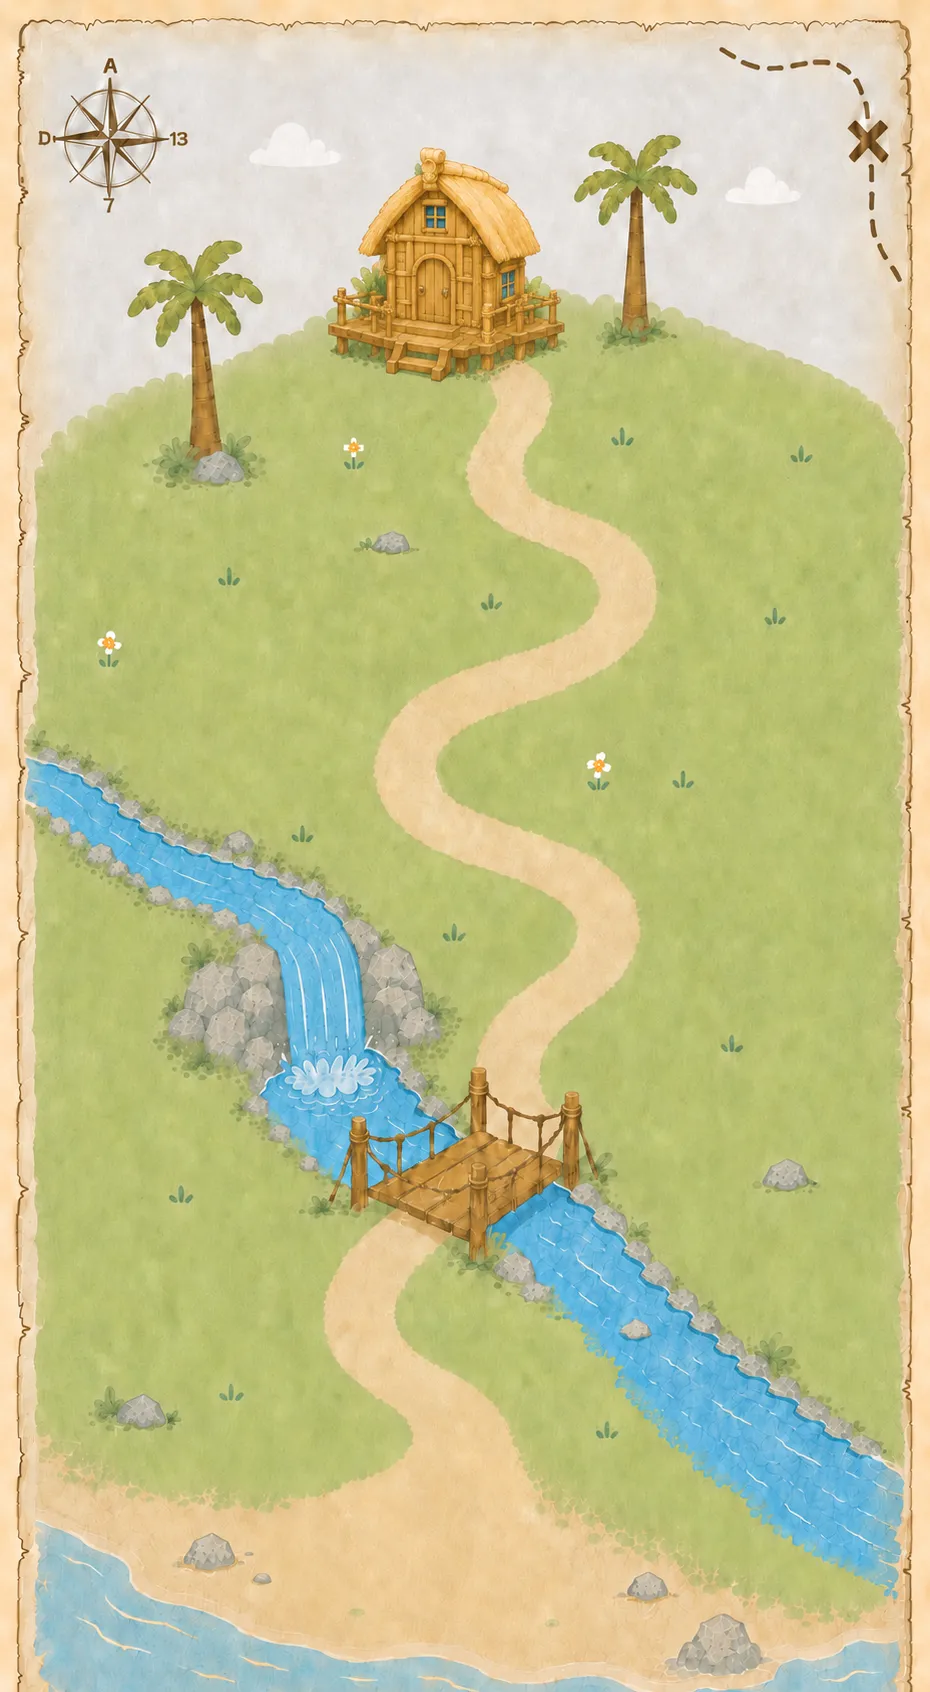
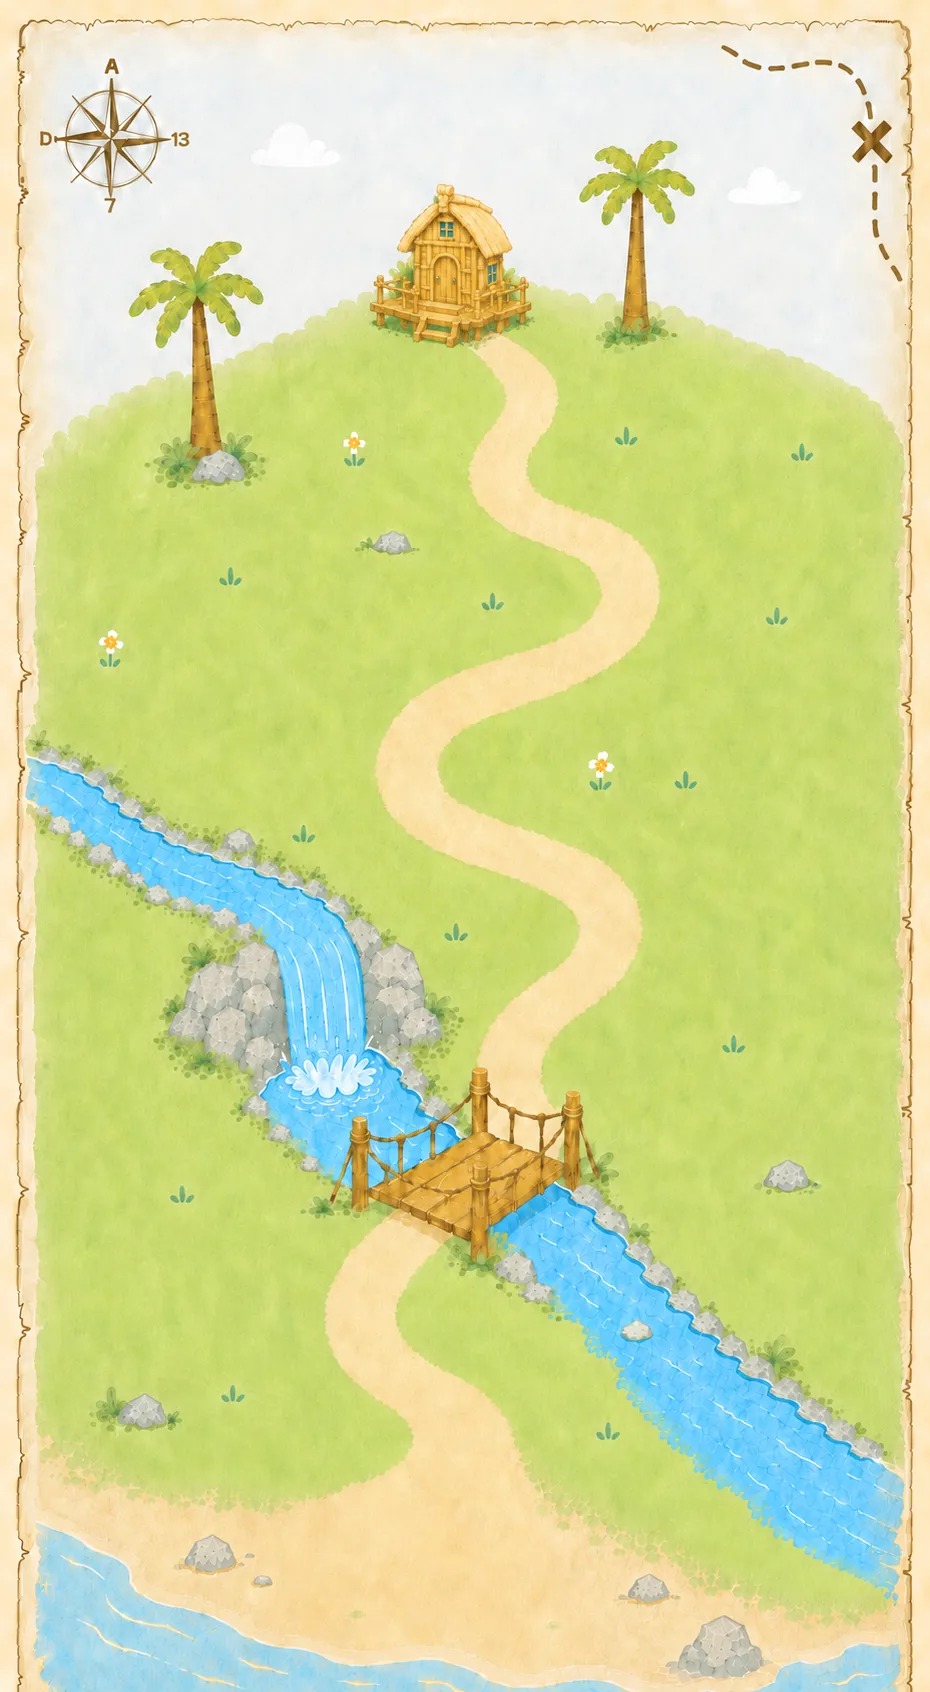
map: 탐험지도 원화 교체 (긴 판 v14 · 짧은 판 v5) — 길 중심선 새로 추출
두 판 모두 크기(885×1777 / 930×1692)와 구도는 그대로지만 모래길이 다시 그려져
굽이가 커지고 폭이 넓어졌다. 옛 중심선(긴 90점 · 짧은 85점)을 새 그림에 얹어 보니
길 밖으로 밀려나 발자국·아이 동선이 잔디를 밟았다 → 중심선을 새로 뽑았다.

뽑는 법: 가로줄마다 모래색 구간을 찾아 중심을 잇고(0.8%씩) 3점 이동평균으로 다듬는다.
자동 검출이 튀는 두 구간은 실측값으로 손보간했다.
  · 다리   — 난간·기둥·상판이 길을 가린다. 다리 위아래 마지막 실측 중심을 이어 채움
             (긴 판 56.1@61.2 → 58@64.1 → 45.5@72.4 / 짧은 판 54.8@62.9 → 56.4@66.3 → 43.4@72.5)
  · 모래사장 — 길이 해변에 녹아 경계가 사라진다. 예전과 같은 곡선으로 이어
             보물상자 오른쪽 옆(긴 판 60.3,90.6 / 짧은 판 51,90.4)에서 끝나게 했다

학원 자리·동물·상자·무지개는 지형이 그대로라 하나도 안 건드렸다.
비율(ar·yr·경로 가중치)도 크기가 같아 그대로다.

art-src 는 규칙 6대로 구버전(v13 · v4)을 지우고 새 원본만 남겼다.

Claude-Session: https://claude.ai/code/session_018maNuYqDfFyRSe9uKpZhPR

diff --git a/src/components/AdventureMap.jsx b/src/components/AdventureMap.jsx
@@ -121,7 +121,7 @@ const EV_IMG = { ev_rainbow: "assets/map-ev/rainbow.webp" };
 
 const MAP_LONG = {
   bg: "assets/adventure-map.webp",
-  ar: "885 / 1777",   // 원화 v13 실측
+  ar: "885 / 1777",   // 원화 v14 실측 (v13과 같은 크기)
   /* [사용자 확정 2026-08-13] 상자를 오른쪽으로 옮겼다 (x 37 → 45.5, 지도에 파란 점으로 찍어 줌).
      길 끝(50,90) '옆'이라는 원칙은 그대로고, 8.5%만큼 길 쪽으로 붙였다 —
      예전 자리는 길에서 너무 떨어져 상자가 지도 왼쪽 구석에 혼자 있는 느낌이었다.
@@ -195,26 +195,30 @@ const MAP_LONG = {
     8: [[68.8,31.8,null,1],[45.1,36.6,null,0],[32.1,44.5,null,3],[57,47,null,1],[74.3,51.9,null,2],[70.5,63.2,null,3],[30.5,74.8,null,0],[53.6,80.4,null,2]],
   },
   pointAt: mkPointAt([
-    /* v12 원화 모래길 중심선 — 진행 방향의 직각으로 재며 걷는 방식으로 다시 뽑았다.
-       v11에서 길이 좁아지고 굽이가 바뀌어 옛 86점 중 23점이 길 밖으로 나갔다. */
-    [58.2,22.1],[58.7,22.8],[58.4,23.3],[58.2,24.3],[57.6,25.2],[56.4,26.1],[54.9,26.8],[54.1,27.5],
-    [53.3,28.2],[53.4,29.1],[53.7,30],[54.7,30.9],[55.9,31.6],[57.5,32.3],[58.8,32.8],[60.3,33.2],
-    [61.6,33.7],[62.3,34.4],[62.9,35.3],[62.9,36.4],[62.2,37.3],[60.9,38.2],[59.6,38.8],[57.7,39.3],
-    [56,39.5],[54.5,39.8],[53,40],[51.5,40.3],[50.1,40.7],[48.7,41.1],[47.5,41.5],[46.3,42.1],
-    [45.3,42.7],[44.6,43.4],[44.1,44.1],[44.2,44.9],[44.5,45.7],[45.3,46.5],[46.4,47.1],[47.7,47.7],
-    [49,48.1],[50.5,48.5],[51.9,48.8],[53.4,49.1],[54.9,49.4],[56.3,49.7],[57.7,50.1],[59,50.5],
-    [60.2,51],[61.1,51.6],[61.7,52.3],[62,53.1],[61.8,53.9],[61.4,54.6],[60.6,55.3],[59.6,56],
-    [58.7,56.6],[57.8,57.3],[57.2,58.1],[56.7,59],[55.9,60.2],[55,61.3],[53.2,63.8],[51,66.2],
-    [48.8,68.5],[46.8,70.4],[44.8,72.4],[43.6,72.9],[42.5,73.5],[41.4,74.1],[40.4,74.7],[39.6,75.4],
-    [38.9,76.1],[38.7,77],[38.8,77.9],[39.6,78.8],[40.6,79.7],[42.1,80.5],[43.2,81.4],[45,82.2],
-    [46.4,83.1],[47.6,84],[48.5,85.1],[49.3,85.9],[49.6,86.7],[50.3,87.4],[51.5,88],[53.2,88.5],
-    [55.1,88.9],[56.9,89.3],[58.4,89.7],[59.6,90.1],[60.3,90.6],
+    /* v14 원화 모래길 중심선 — 원화가 바뀌면서 길이 다시 그려져(굽이가 커지고 폭이 넓어졌다)
+       옛 90점이 길 밖으로 밀려났다. 새로 뽑은 값이다.
+       뽑는 법: 가로줄마다 모래색 구간을 찾아 중심을 잇고(0.8%씩), 3점 이동평균으로 다듬는다.
+       다리 구간(y 61~72)은 난간·기둥·상판이 길을 가려 자동 검출이 튄다 → 다리 위아래의
+       마지막 실측 중심(56.1@61.2 → 58@64.1 → 45.5@72.4)을 이어 손으로 채웠다.
+       꼬리(y 86 아래)도 길이 모래사장에 녹아 경계가 사라진다 → 예전과 같은 곡선으로 이어
+       보물상자(45.5) 오른쪽 옆(60.3, 90.6)에서 끝나게 했다. */
+    [57.9,21.6],[59,22.4],[59.6,23.2],[59.5,24],[58.8,24.8],[57.6,25.6],[56,26.4],[54.5,27.2],[53.3,28],
+    [52.6,28.8],[52.3,29.6],[52.6,30.4],[53.6,31.2],[55.4,32],[58,32.8],[60.4,33.6],[62.7,34.4],
+    [63.9,35.2],[64.6,36],[64.2,36.8],[62.6,37.6],[60.1,38.4],[57.1,39.2],[54,40],[51,40.8],[48.3,41.6],
+    [46.1,42.4],[44.6,43.2],[43.7,44],[43.4,44.8],[43.6,45.6],[44.5,46.4],[46.2,47.2],[48.6,48],
+    [51.4,48.8],[54.2,49.6],[56.9,50.4],[59.4,51.2],[61.2,52],[62.2,52.8],[62.4,53.6],[61.9,54.4],
+    [61.2,55.2],[60.1,56],[58.8,56.8],[57.6,57.6],[56.5,58.4],[56,59.2],[55.7,60],[56,60.8],[56.4,61.6],
+    [56.9,62.4],[57.4,63.2],[57.4,64],[56.8,64.8],[55.7,65.6],[54.5,66.4],[53.3,67.2],[52.1,68],
+    [50.9,68.8],[49.7,69.6],[48.5,70.4],[47.3,71.2],[46,72],[44.5,72.8],[42.9,73.6],[41.3,74.4],
+    [39.9,75.2],[38.9,76],[38.1,76.8],[37.8,77.6],[37.9,78.4],[38.6,79.2],[40,80],[41.7,80.8],
+    [44.1,81.6],[46,82.4],[47.7,83.2],[48.8,84],[49.7,84.8],[50.3,85.6],[50.6,86.7],[51.2,87.4],
+    [52.3,88],[53.8,88.5],[55.5,88.9],[57.2,89.3],[58.6,89.7],[59.7,90.1],[60.3,90.6],
   ], 1777 / 885),
 };
 // 짧은 지도 v2 (972×1619, 3:5 양피지) — 학원 0~2곳용, 무대 배경과 비슷한 체감 높이
 const MAP_SHORT = {
   bg: "assets/adventure-map-short.webp",
-  ar: "930 / 1692",   // 원화 v4 실측 (v3 922×1706 에서 세로가 1.6% 짧아졌다)
+  ar: "930 / 1692",   // 원화 v5 실측 (v4와 같은 크기)
   chest: [32, 88],
   /* 길 끝(45,90) 옆 — 길 위에 두면 캐릭터가 상자를 밟고 선다 */
   chestClosed: [32, 93, 17],
@@ -257,20 +261,22 @@ const MAP_SHORT = {
     2: [[33.9,39.9,null,3],[76.9,55]],                 // ① 고정 + ② 추가
     3: [[33.9,39.9,null,3],[76.9,55],[28,79.6,"bottom"]], // ①② 고정 + ③ 추가(라벨 집 아래)
   },
-  // v10 원화 모래길 중심선 — 긴 지도와 같은 방식으로 추출, 다리 구간만 수동 보간
+  /* v5 원화 모래길 중심선 — 긴 판 v14와 같은 방식으로 새로 뽑았다 (원화가 바뀌며 길도 다시 그려졌다).
+     다리 구간(y 63~72.5)은 실측 중심 54.8@62.9 → 56.4@66.3 → 43.4@72.5 를 이어 손으로 채웠고,
+     꼬리(y 87 아래)는 길이 모래사장에 녹아 경계가 사라져 보물상자(32) 오른쪽 옆(51, 90.4)까지 이어 그렸다. */
   pointAt: mkPointAt([
-    [56,23],[55.3,24.3],[55,24.8],[54.5,25.6],[54.2,26.6],[54.4,27.5],[55.1,28.3],[56.3,29.1],
-    [57.8,29.7],[59.3,30.2],[60.9,30.7],[62.5,31.1],[63.9,31.6],[64.7,32.4],[65.5,33.3],[65.4,34.5],
-    [64.4,35.7],[62.9,36.8],[61.3,37.7],[59.1,38.4],[57.1,38.9],[55.4,39.2],[53.8,39.5],[52.3,39.8],
-    [50.7,40.2],[49.2,40.6],[47.9,41.1],[46.6,41.7],[45.7,42.5],[45,43.3],[44.9,44.3],[45.2,45.3],
-    [46.1,46.2],[47.2,47],[48.7,47.7],[50.2,48.2],[51.8,48.6],[53.4,48.9],[55,49.2],[56.6,49.5],
-    [58.2,49.9],[59.7,50.2],[61.1,50.7],[62.3,51.3],[63,52.2],[63.5,53.2],[63.2,54.4],[62.4,55.6],
-    [61.1,56.7],[59.9,57.6],[58.3,58.4],[57.1,59.2],[56.2,59.9],[55.7,60.8],[55.6,61.7],[55.6,62.7],
-    [55.9,63.7],[56.4,64.6],[56.2,65.6],[55.1,66.7],[53.4,67.8],[51,68.9],[47.9,70],[45.2,71.1],
-    [43,72],[41.4,72.8],[40.2,73.6],[39.6,74.5],[39.3,75.4],[39.4,76.3],[39.8,77.2],[40.7,78],
-    [41.8,78.8],[43.1,79.4],[44.4,80],[45.5,80.8],[46.4,81.6],[46.8,82.6],[46.8,83.7],[46.6,84.8],
-    [46.2,86],[45.8,87],[45.6,88],[45.9,88.8],[46.8,89.4],[48.2,89.8],[49.8,90.1],[51,90.4],
-  ], 1692 / 930),   // 경로 가중치도 새 원화 비율로 (예전 1536/834 = v3 비율)
+    [55.5,21.6],[56.4,22.4],[56.9,23.2],[56.8,24],[56.1,24.8],[55.3,25.6],[54.6,26.4],[54,27.2],
+    [53.8,28],[54.2,28.8],[55.6,29.6],[57.8,30.4],[60.4,31.2],[63,32],[65.2,32.8],[66.7,33.6],
+    [67.5,34.4],[67.6,35.2],[67.1,36],[66,36.8],[64.6,37.6],[61.9,38.4],[59.3,39.2],[56.1,40],
+    [53.6,40.8],[50.7,41.6],[48.1,42.4],[46.1,43.2],[44.8,44],[44.1,44.8],[44,45.6],[44.5,46.4],
+    [45.6,47.2],[47.5,48],[50,48.8],[52.5,49.6],[55.6,50.4],[58.2,51.2],[61,52],[62.8,52.8],[64.4,53.6],
+    [65.3,54.4],[65.4,55.2],[65,56],[64.1,56.8],[62.7,57.6],[61.1,58.4],[59.4,59.2],[57.8,60],
+    [56.5,60.8],[55.7,61.6],[55.2,62.4],[55.1,63.2],[55.3,64],[55.7,64.8],[56,65.6],[55.6,66.4],
+    [54.5,67.2],[52.8,68],[51.2,68.8],[49.5,69.6],[47.8,70.4],[46.1,71.2],[44.6,72],[43.4,72.8],
+    [42.4,73.6],[41.6,74.4],[40.7,75.2],[39.9,76],[39.3,76.8],[39,77.6],[39,78.4],[39.6,79.2],[40.6,80],
+    [42.2,80.8],[44.1,81.6],[46,82.4],[47.7,83.2],[49,84],[49.6,84.8],[49.7,85.6],[49.4,86.4],
+    [49.2,87.4],[49.1,88.2],[49.4,88.9],[50,89.5],[50.7,90],[51,90.4],
+  ], 1692 / 930),   // 경로 가중치는 원화 비율 그대로 (v4 와 크기가 같다)
 };
 
 // (현재 미사용 — 탐험장소 줄이 이모지 스탬프로 바뀌며 건물 그림을 안 쓴다.

diff --git a/art-src/README.md b/art-src/README.md
@@ -219,8 +219,8 @@ getBoundingClientRect로 재서 정한다. 2026-08-05 점검에서 이 기준을
 | expedition/ride/submarine-src.webp | 탑승 원화 32 잠수정 — 바다 변형 (탈것+앉은 캐릭터 한 장, halo 보정 후 탑재) | expedition/ride/submarine.webp |
 | expedition/char/common-run-src.webp | 탐험 씬 달리기 포즈 (초원 전용 — 이동 속도도 조금 빠르게, halo 보정 후 탑재) | expedition/char/common-run.webp |
 | bg-adventure-meadow-v10-src.webp | 탐험 모드 무대 기본 배경 v10 (866×1815 = 1:2.10 — 무대 칸 비율에 맞춘 세로 긴 판. v9과 구도는 같고 전체를 더 밝고 맑게 뺀 판(하늘 하늘색·모래 밝은 베이지). 우측 나무도 빠져 좌우가 트였다. 받은 그대로 톤 보정 없음, 현행) | stage-adventure-meadow.webp |
-| adventure-map-v13-src.webp | 탐험지도 긴 판 v13 (885×1777 — 학원 4곳 이상용). v12와 구도·모래길이 사실상 같고 그림만 다시 그렸다(선이 정리되고 물·풀 결이 부드러워졌다). 오른쪽 중턱에 있던 야자나무는 빠졌다. 길 중심선 90점을 새 그림에 얹어 확인 — 전부 길 위라 좌표는 손대지 않았다. 배포본이 163KB → 111KB 로 줄었다 | adventure-map.webp |
-| adventure-map-short-v4-src.webp | 탐험지도 짧은 판 v4 (930×1692 = 1:1.819 — 학원 0~3곳용). v3(922×1706 = 1:1.849)보다 세로가 1.6% 짧아져 `ar`·`yr`·경로 가중치를 새 크기로 맞췄다. 그림은 긴 판 v13과 같은 결로 다시 그린 판이고 길 모양도 거의 같다(85점을 얹어 확인 — 전부 길 위). 오른쪽 중턱 야자나무는 여기서도 빠졌다. 배포본이 184KB → 112KB | adventure-map-short.webp |
+| adventure-map-v14-src.webp | 탐험지도 긴 판 v14 (885×1777 — 학원 4곳 이상용). v13과 크기·구도는 같지만 **모래길을 다시 그려** 굽이가 커지고 폭이 넓어졌다 → 옛 90점이 길 밖으로 밀려나 길 중심선을 새로 뽑았다(가로줄마다 모래색 구간 중심, 다리·모래사장 구간은 실측 중심을 이어 손으로 보간). 학원 자리·동물·상자·무지개는 지형이 그대로라 손대지 않았다. 배포본 111KB → 118KB | adventure-map.webp |
+| adventure-map-short-v5-src.webp | 탐험지도 짧은 판 v5 (930×1692 = 1:1.819 — 학원 0~3곳용). v4와 크기가 같아 `ar`·`yr`·경로 가중치는 그대로고, 긴 판 v14와 같은 결로 다시 그린 판이다. 여기도 모래길이 다시 그려져 길 중심선 88점을 새로 뽑았다. 학원 자리·동물·상자는 그대로 | adventure-map-short.webp |
 | camp-bag-v2-src.webp | 캐릭터 탭 가방 카드 '빈 틀' v2 (1260×860 = 비율 1.465, 투명 = 표시 359px의 3.5배). 세로는 그대로 두고 가로만 넓힌 판 — 종이면이 넓어져 "👑 Lv.20 전설의 탐험가"가 한 줄에 들어간다. 안쪽 종이면 x 9.9~90.0% · y 24.1~86.7%(실측)에 레벨·진행막대·코인/XP를 앱이 그린다 — 값이 매일 바뀌므로 그림에 넣지 않는다. 좁은 v1(1000×862)은 규칙 6에 따라 삭제 | camp/bag.webp |
 | camp-{deco,item,box,pet,book,title,streak,history}-v2-src.webp | 캐릭터 탭 격자 아이콘 **8종 전부** (490×490 정사각 = 표시 138px의 3.5배, 받침 없이 캔버스를 꽉 채운 판). 앱이 정사각 칸에 objectFit:contain 으로 넣으므로 여덟 칸의 무게가 저절로 맞는다. 그루터기 붙은 v1은 규칙 6에 따라 삭제 | camp/st-*.webp |
 | bg-deepsea-v12-src.webp | 꾸미기 배경 '깊은 바다' 원화 v12 (872×1804 = 1:2.069 — v10·v11과 같은 크기, 무대 칸 1:2.09 와 거의 같아 좌우가 아주 조금 잘린다). v11과 구도·소품이 같다 — 바위 협곡 사이 넓은 모랫길, 그 끝의 해저 아치문, 위쪽 고래 실루엣, 가운데 바다거북, 왼쪽 아래 해마, 좌우 산호·해초, 수면 빛줄기, 파란 무리 두 떼와 노란 물고기 두 마리. 달라진 건 그림체다 — 선이 정리되고 결이 매끈해졌으며, 바위가 연한 하늘색으로 밝아지고 빛줄기가 또렷한 부챗살이 됐다. 그 덕에 압축이 잘 먹어 배포본이 60KB → 45KB (배경 여섯 판 중 가장 가볍다). deco 🫧 🐙 ✨ 🫧 🐚 · tint 0.10 · darkStage 끔 — v11 그대로다(위쪽 수면이 흰빛이라 크림색 문구가 안 읽힌다). 받은 그대로 톤 보정 없음. art-src 는 q92(111KB), 배포본은 q80(45KB) | stage-bg-deepsea.webp |
